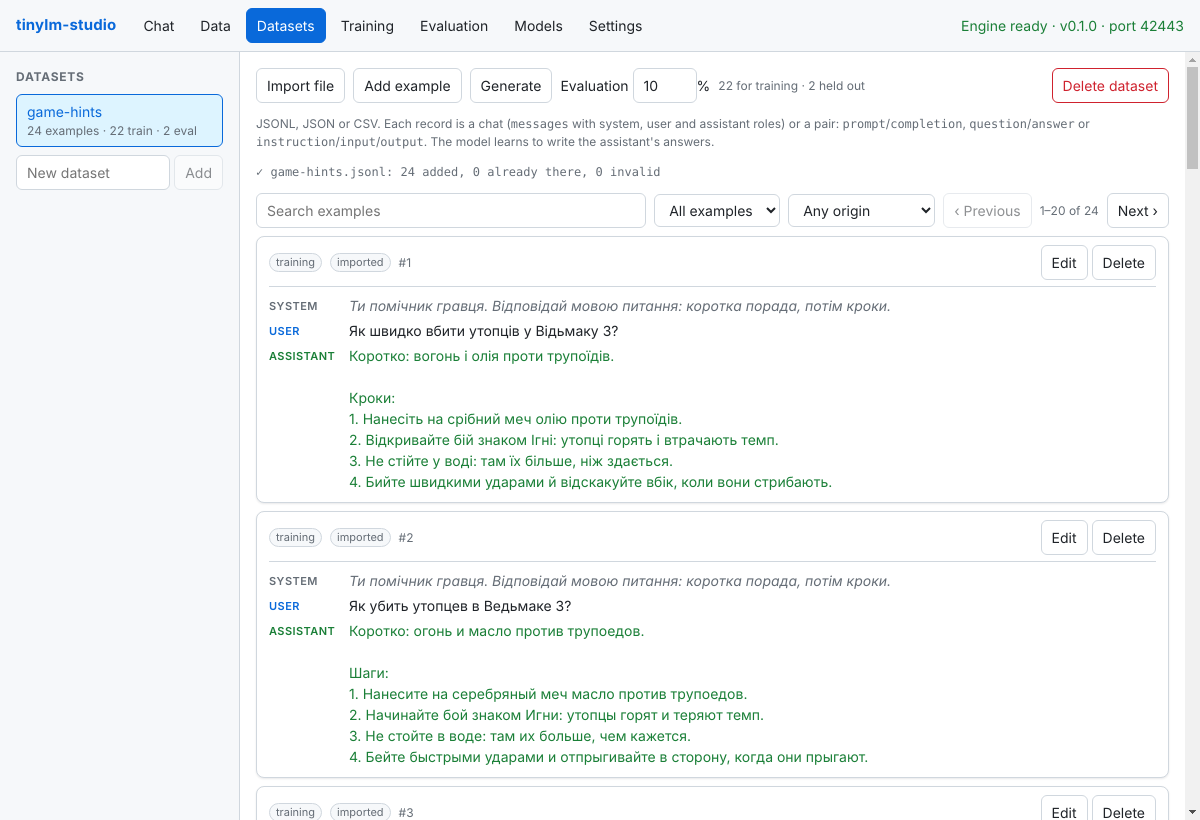
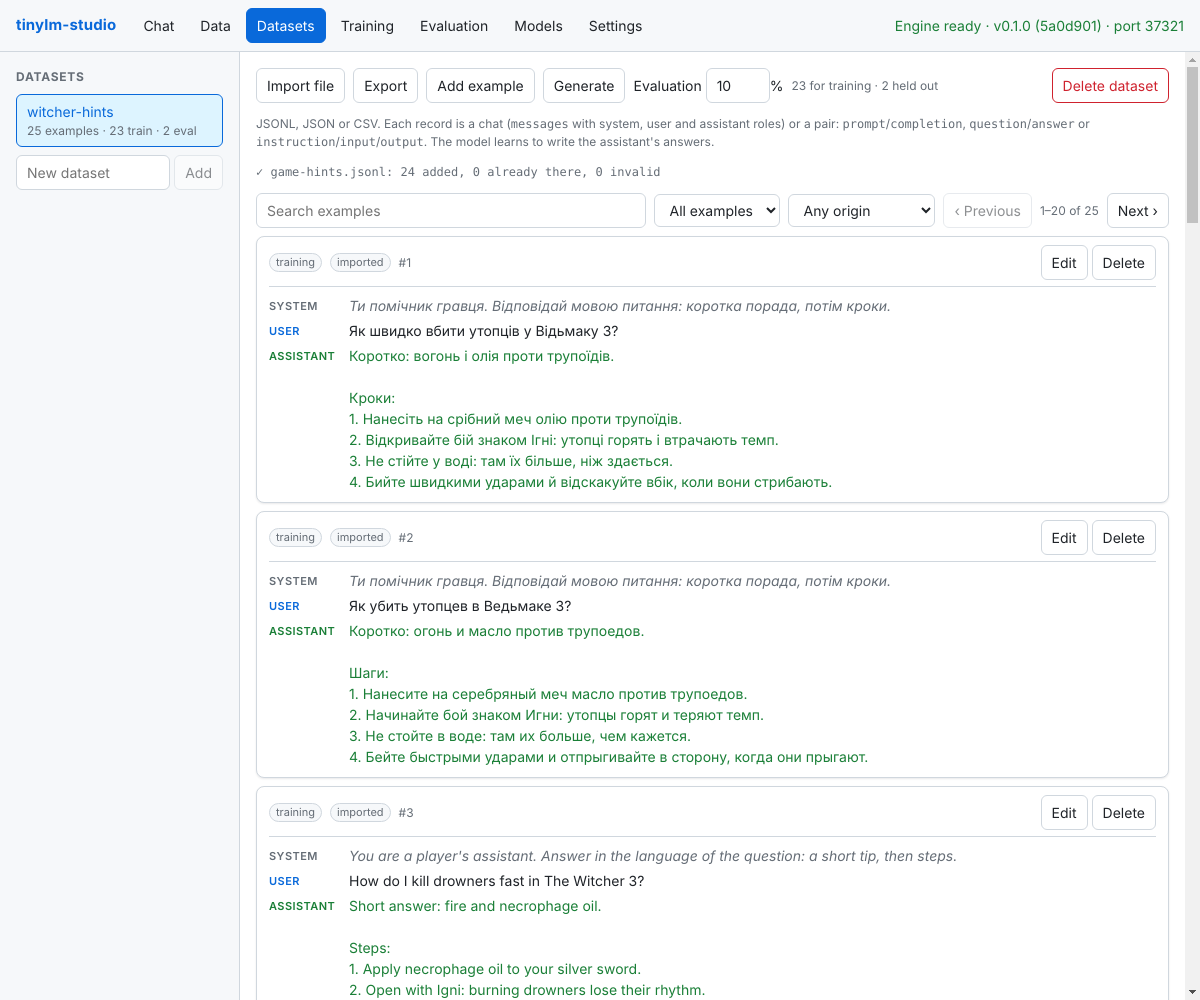
Datasets: export a dataset to JSONL, to import on another engine
GET /api/datasets/{name}/export (optionally one split) writes each example
as {"messages", "origin", "source"}; importing such a file keeps the origin
and source instead of marking the examples imported. The Datasets screen has
an Export button.

Claude-Session: https://claude.ai/code/session_01K6iyxnxtYDs5kNr5qmfTjK

diff --git a/desktop/src/renderer/Datasets.tsx b/desktop/src/renderer/Datasets.tsx
@@ -110,6 +110,7 @@ function DatasetView({
   const [editing, setEditing] = useState<number | "new" | null>(null);
   const [draft, setDraft] = useState<ChatMessage[]>(NEW_EXAMPLE);
   const [importing, setImporting] = useState(false);
+  const [exporting, setExporting] = useState(false);
   const [log, setLog] = useState<string[]>([]);
   const [confirmDelete, setConfirmDelete] = useState(false);
   const [error, setError] = useState<string | null>(null);
@@ -164,6 +165,24 @@ function DatasetView({
     onChange();
   }
 
+  // Saves the examples to a file, to import on another engine (a RunPod pod, say).
+  async function exportDataset() {
+    setError(null);
+    setExporting(true);
+    try {
+      const blob = await client.exportDataset(dataset.name);
+      const link = document.createElement("a");
+      link.href = URL.createObjectURL(blob);
+      link.download = `${dataset.name}.jsonl`;
+      link.click();
+      setTimeout(() => URL.revokeObjectURL(link.href), 60_000);
+    } catch (e) {
+      report(e);
+    } finally {
+      setExporting(false);
+    }
+  }
+
   async function saveSplit() {
     if (evalPercent === dataset.eval_percent) return;
     await client.updateDataset(dataset.name, evalPercent).catch(report);
@@ -215,6 +234,13 @@ function DatasetView({
           <span className="button">Import file</span>
           <input type="file" multiple accept=".jsonl,.json,.csv" onChange={(e) => importFiles(e.target.files)} disabled={importing} />
         </label>
+        <button
+          onClick={exportDataset}
+          disabled={exporting || dataset.examples === 0}
+          title="Saves the examples to a JSONL file, for Import file on another engine, e.g. a RunPod pod"
+        >
+          Export
+        </button>
         <button onClick={() => edit(null)} disabled={editing !== null}>Add example</button>
         <button onClick={() => setGenerating(!generating)}>Generate</button>
         <label title="Examples held out from training to measure the model on data it has not seen">

diff --git a/desktop/src/renderer/api.ts b/desktop/src/renderer/api.ts
@@ -641,6 +641,11 @@ export class EngineClient {
     return (await this.json<{ data: ImportResult[] }>(path, { method: "POST", body: form })).data[0];
   }
 
+  /** The examples as JSONL, for Import file here or on another engine. */
+  async exportDataset(dataset: string): Promise<Blob> {
+    return (await this.send(`/api/datasets/${encodeURIComponent(dataset)}/export`)).blob();
+  }
+
   async examples(dataset: string, filter: ExampleFilter = {}): Promise<{ data: Example[]; total: number }> {
     const params = new URLSearchParams();
     for (const [key, value] of Object.entries(filter)) {

diff --git a/engine/src/engine/datasets/formats.py b/engine/src/engine/datasets/formats.py
@@ -24,6 +24,7 @@ SHAREGPT_ROLES |= {"assistant": "assistant", "model": "assistant", "bot": "assis
 # (question field, answer field), tried in order.
 PAIRS = (("prompt", "completion"), ("question", "answer"), ("input", "output"))
 SUPPORTED_SUFFIXES = (".jsonl", ".json", ".csv")
+ORIGINS = ("manual", "imported", "generated")
 
 
 class InvalidExample(ValueError):
@@ -35,6 +36,19 @@ class ParsedRecord:
     line: int  # 1-based line (JSONL) or row (CSV, counting the header) in the file
     messages: Messages | None = None
     error: str | None = None
+    # Kept from a dataset export, so examples moved to another engine keep where they came from.
+    origin: str | None = None
+    source: str | None = None
+
+
+def read(number: int, record: object) -> ParsedRecord:
+    """One record of a file as messages, with its origin and source when an export wrote them."""
+    parsed = ParsedRecord(number, messages=to_messages(record))
+    if isinstance(record, dict) and record.get("origin") in ORIGINS:
+        parsed.origin = record["origin"]
+        source = record.get("source")
+        parsed.source = source if isinstance(source, str) and source else None
+    return parsed
 
 
 def validate(messages: object) -> Messages:
@@ -126,7 +140,7 @@ def parse_jsonl(text: str) -> Iterator[ParsedRecord]:
         if not line.strip():
             continue
         try:
-            yield ParsedRecord(number, messages=to_messages(json.loads(line)))
+            yield read(number, json.loads(line))
         except json.JSONDecodeError as e:
             yield ParsedRecord(number, error=f"not valid JSON: {e.msg}")
         except InvalidExample as e:
@@ -141,7 +155,7 @@ def parse_json_array(text: str) -> Iterator[ParsedRecord]:
         return
     for number, record in enumerate(records, 1):
         try:
-            yield ParsedRecord(number, messages=to_messages(record))
+            yield read(number, record)
         except InvalidExample as e:
             yield ParsedRecord(number, error=str(e))
 
@@ -152,6 +166,6 @@ def parse_csv(text: str) -> Iterator[ParsedRecord]:
         reader.fieldnames = [f.strip().lower() for f in reader.fieldnames]
     for number, row in enumerate(reader, 2):
         try:
-            yield ParsedRecord(number, messages=to_messages(row))
+            yield read(number, row)
         except InvalidExample as e:
             yield ParsedRecord(number, error=str(e))

diff --git a/engine/tests/test_datasets.py b/engine/tests/test_datasets.py
@@ -141,3 +141,35 @@ def test_datasets_api(client):
     assert client.delete(path).status_code == 404
     assert client.delete("/api/datasets/hints").status_code == 204
     assert client.get("/api/datasets/hints/examples").status_code == 404
+
+
+def test_dataset_export_and_import(client):
+    client.post("/api/datasets", json={"name": "підказки", "eval_percent": 50})
+    chat = [{"role": "user", "content": "Знак?"}, {"role": "assistant", "content": "Ігні."}]
+    client.post("/api/datasets/підказки/examples", json={"messages": chat})
+    datasets = client.app.state.datasets
+    generated = [{"role": "user", "content": "Хто?"}, {"role": "assistant", "content": "Геральт."}]
+    datasets.add("підказки", generated, "generated", "witcher.md")
+    files = {"files": ("a.jsonl", json.dumps({"prompt": "Де?", "completion": "Тут."}).encode())}
+    client.post("/api/datasets/підказки/import", files=files)
+
+    response = client.get("/api/datasets/підказки/export")
+    assert response.status_code == 200
+    assert "filename*=UTF-8''%D0%BF" in response.headers["content-disposition"]
+    records = [json.loads(line) for line in response.text.splitlines()]
+    assert [r["origin"] for r in records] == ["manual", "generated", "imported"]
+    assert records[1]["source"] == "witcher.md" and "source" not in records[0]
+    held_out = client.get("/api/datasets/підказки/export", params={"split": "eval"}).text
+    assert len(held_out.splitlines()) == client.get("/api/datasets").json()["data"][0]["eval"]
+
+    client.post("/api/datasets", json={"name": "copy"})
+    files = {"files": ("підказки.jsonl", response.content)}
+    report = client.post("/api/datasets/copy/import", files=files).json()["data"][0]
+    assert report["added"] == 3
+    copied = client.get("/api/datasets/copy/examples").json()["data"]
+    assert [(e["origin"], e["source"]) for e in copied] == [
+        ("manual", None),
+        ("generated", "witcher.md"),
+        ("imported", None),
+    ]
+    assert client.get("/api/datasets/missing/export").status_code == 404

diff --git a/engine/src/engine/datasets/store.py b/engine/src/engine/datasets/store.py
@@ -8,6 +8,7 @@ and changing the evaluation share only moves the examples near the boundary.
 import hashlib
 import json
 import re
+from collections.abc import Iterator
 from typing import Literal
 
 from engine.datasets.formats import Messages, parse, validate
@@ -249,7 +250,12 @@ class DatasetStore:
                     invalid += 1
                     if len(errors) < MAX_REPORTED_ERRORS:
                         errors.append({"line": record.line, "error": record.error})
-                elif self._insert(dataset, record.messages, "imported") is None:
+                elif (
+                    self._insert(
+                        dataset, record.messages, record.origin or "imported", record.source
+                    )
+                    is None
+                ):
                     duplicates += 1
                 else:
                     added += 1
@@ -261,6 +267,14 @@ class DatasetStore:
             "invalid": invalid,
             "errors": errors,
         }
+
+    def export_lines(self, dataset: str, split: Split = "all") -> Iterator[str]:
+        """The examples as JSON lines that import_file reads back, keeping origin and source."""
+        for example in self.examples(dataset, split=split):
+            record = {"messages": example["messages"], "origin": example["origin"]}
+            if example["source"]:
+                record["source"] = example["source"]
+            yield json.dumps(record, ensure_ascii=False) + "\n"
 
     def split(self, dataset: str) -> tuple[list[Messages], list[Messages]]:
         """All examples as (train, eval) message lists, for a training run."""

diff --git a/engine/src/engine/api/datasets.py b/engine/src/engine/api/datasets.py
@@ -1,6 +1,9 @@
 """Management API for training datasets: import, browse, edit and split examples."""
 
+from urllib.parse import quote
+
 from fastapi import APIRouter, Depends, HTTPException, Query, Request, UploadFile
+from fastapi.responses import StreamingResponse
 from pydantic import BaseModel, Field
 
 from engine.api.deps import require_api_key
@@ -110,6 +113,24 @@ def import_files(name: str, files: list[UploadFile], store: DatasetStore = Depen
         except InvalidExample as e:
             results.append({"name": filename, "error": str(e)})
     return {"data": results}
+
+
+@router.get("/{name}/export")
+def export_dataset(
+    name: str, split: Split = "all", store: DatasetStore = Depends(datasets)
+) -> StreamingResponse:
+    """The examples as JSONL in the chat format, for POST /{name}/import here or elsewhere."""
+    try:
+        store.dataset(name)
+    except DatasetNotFound:
+        raise not_found(name) from None
+    filename = name if split == "all" else f"{name}-{split}"
+    return StreamingResponse(
+        store.export_lines(name, split),
+        media_type="application/x-ndjson",
+        # filename* allows names such as "підказки"; headers themselves are latin-1.
+        headers={"content-disposition": f"attachment; filename*=UTF-8''{quote(filename)}.jsonl"},
+    )
 
 
 @router.get("/{name}/examples")

diff --git a/docs/api.md b/docs/api.md
@@ -355,7 +355,8 @@ write. Examples live in `knowledge.db` next to the collections.
 | POST | `/api/datasets` | `{"name": "game-hints", "eval_percent": 10}` |
 | PATCH | `/api/datasets/{name}` | `{"eval_percent": 20}` |
 | DELETE | `/api/datasets/{name}` | Deletes the dataset and its examples |
-| POST | `/api/datasets/{name}/import` | Multipart upload, field `files`: `added`, `duplicates`, `invalid` and the first `errors` (`line`, `error`) per file |
+| POST | `/api/datasets/{name}/import` | Multipart upload, field `files`: `added`, `duplicates`, `invalid` and the first `errors` (`line`, `error`) per file. Records with an `origin` (and `source`), as written by export, keep it; others are `imported` |
+| GET | `/api/datasets/{name}/export` | `?split=all\|train\|eval`: the examples as JSONL (`{"messages": [...], "origin": ..., "source": ...}` per line), downloaded as `<name>.jsonl`; import reads it back |
 | GET | `/api/datasets/{name}/examples` | `?query=&split=all\|train\|eval&origin=manual\|imported\|generated&offset=0&limit=20`: one page of examples (each with `split`, `origin` and, for generated ones, `source`) and the matching `total` |
 | POST | `/api/datasets/{name}/examples` | `{"messages": [...]}` |
 | PUT | `/api/datasets/{name}/examples/{id}` | `{"messages": [...]}` |

diff --git a/docs/implementation-plan.md b/docs/implementation-plan.md
@@ -231,8 +231,8 @@ grounded answers with sources through both APIs, Data screen and cited answers i
 ### Phase 3 – Fine-tuning (in progress)
 
 Done: datasets (JSONL/JSON/CSV import in OpenAI, ShareGPT, Alpaca and prompt/completion shapes,
-validation with line numbers, a stable train/held-out split, search, editing) and the Datasets
-screen; LoRA training with transformers + peft in a separate worker process, only the assistant
+validation with line numbers, a stable train/held-out split, search, editing, JSONL export) and the
+Datasets screen; LoRA training with transformers + peft in a separate worker process, only the assistant
 answers learned, checkpoints, stop and resume, progress as server-sent events; fine-tuned models
 served as base + adapter (merged on load) in chat and through both APIs; Training screen with a
 live loss chart; fine-tuned models listed on the Models screen. The Models screen also lists

diff --git a/docs/user-guide.md b/docs/user-guide.md
@@ -242,6 +242,9 @@ language); facts are better left to collections and chat with data.
   optional `system`. Bad records are skipped and listed with their line numbers.
   [examples/game-hints.jsonl](examples/game-hints.jsonl) is a small sample in Ukrainian, Russian
   and English.
+- **Export** saves the examples to `<name>.jsonl` in the chat format above. **Import file** with
+  it on another engine (a RunPod pod, say) moves the dataset there; examples keep their origin
+  (and the document a generated one was written from), and ones already there are skipped.
 - **Add example**, **Edit** and **Delete** change examples by hand.
 - **Evaluation %** holds examples out of training to measure the model on data it has not
   seen. Each example stays in its part when others are added or removed.
